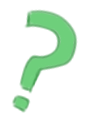
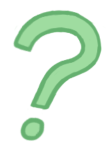
エモーション周りの画像差し替え

diff --git a/src/net/orekyuu/riho/character/emotion/QuestionRenderer.java b/src/net/orekyuu/riho/character/emotion/QuestionRenderer.java
@@ -1,6 +1,5 @@
 package net.orekyuu.riho.character.emotion;
 
-import com.intellij.ui.JBColor;
 import net.orekyuu.riho.character.ImageResources;
 import net.orekyuu.riho.character.ImageUtil;
 import net.orekyuu.riho.character.Loop;
@@ -26,7 +25,7 @@ public class QuestionRenderer extends EmotionRenderer {
     public void render(Graphics g, int charaX, int charaY) {
         Duration currentLoopTime = Duration.between(getLoopStartTime(), Instant.now());
 
-        int posY = charaY + 10;
+        int posY = charaY + 40;
         long millis = currentLoopTime.toMillis();
 
         float alpha = 1.0f;
@@ -38,7 +37,7 @@ public class QuestionRenderer extends EmotionRenderer {
         } else {
             alpha = Math.max(((float)loopTime - millis) / (float)loopTime, 0);
         }
-        ImageUtil.drawImage(g, image, charaX + ImageUtil.defaultScale(190), posY, alpha);
+        ImageUtil.drawImage(g, image, charaX + ImageUtil.defaultScale(340), posY, alpha);
 
         if (loopTime < millis) {
             nextLoop();

diff --git a/src/net/orekyuu/riho/character/emotion/SweatRenderer.java b/src/net/orekyuu/riho/character/emotion/SweatRenderer.java
@@ -24,11 +24,11 @@ public class SweatRenderer extends EmotionRenderer {
         Duration currentLoopTime = Duration.between(getLoopStartTime(), Instant.now());
         long millis = currentLoopTime.toMillis();
 
-        int posY = charaY + ImageUtil.defaultScale(40);
+        int posY = charaY + ImageUtil.defaultScale(50);
         double a = Math.min(millis, loopTime - waitTime) / (loopTime - waitTime);
 
         posY += ImageUtil.defaultScale(20) * a;
-        ImageUtil.drawImage(g, image, charaX + ImageUtil.defaultScale(20), posY, a);
+        ImageUtil.drawImage(g, image, charaX + ImageUtil.defaultScale(110), posY, a);
         if (loopTime < millis) {
             nextLoop();
         }

diff --git a/src/net/orekyuu/riho/character/CharacterRenderer.java b/src/net/orekyuu/riho/character/CharacterRenderer.java
@@ -16,7 +16,7 @@ public class CharacterRenderer {
     private Reaction reaction;
     private Instant reactionStartTime;
     private BufferedImage characterBase;
-    private EmotionRenderer emotionRenderer = new EmptyRenderer();
+    private EmotionRenderer emotionRenderer = new SweatRenderer(Loop.infinite());
 
     CharacterRenderer() {
         characterBase = ImageResources.character();
